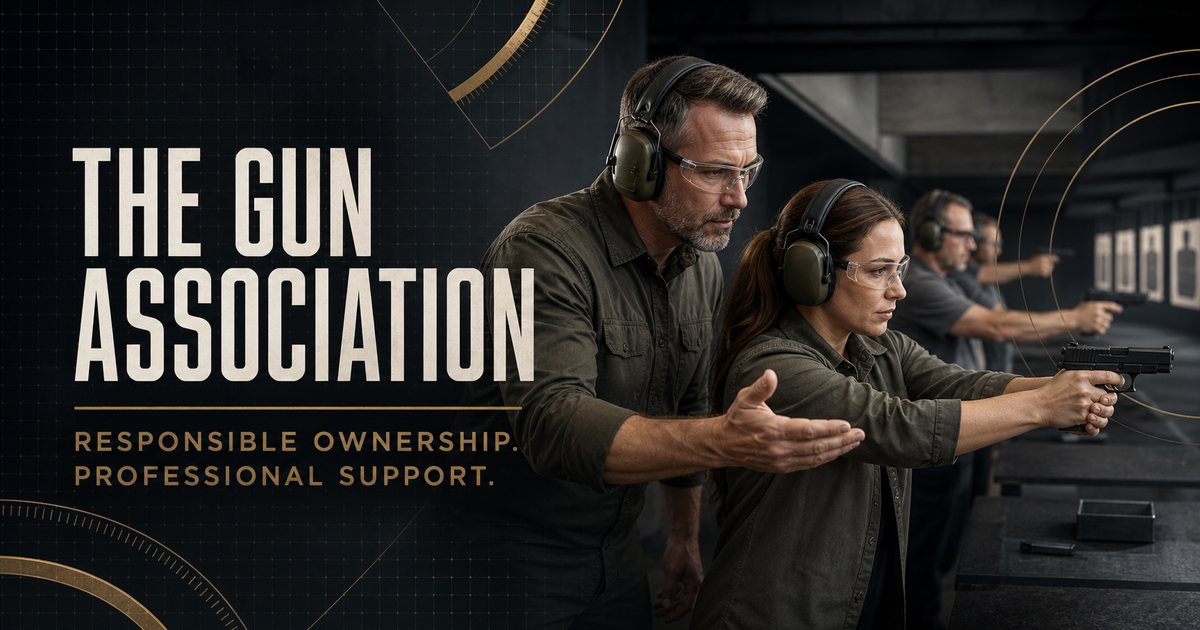
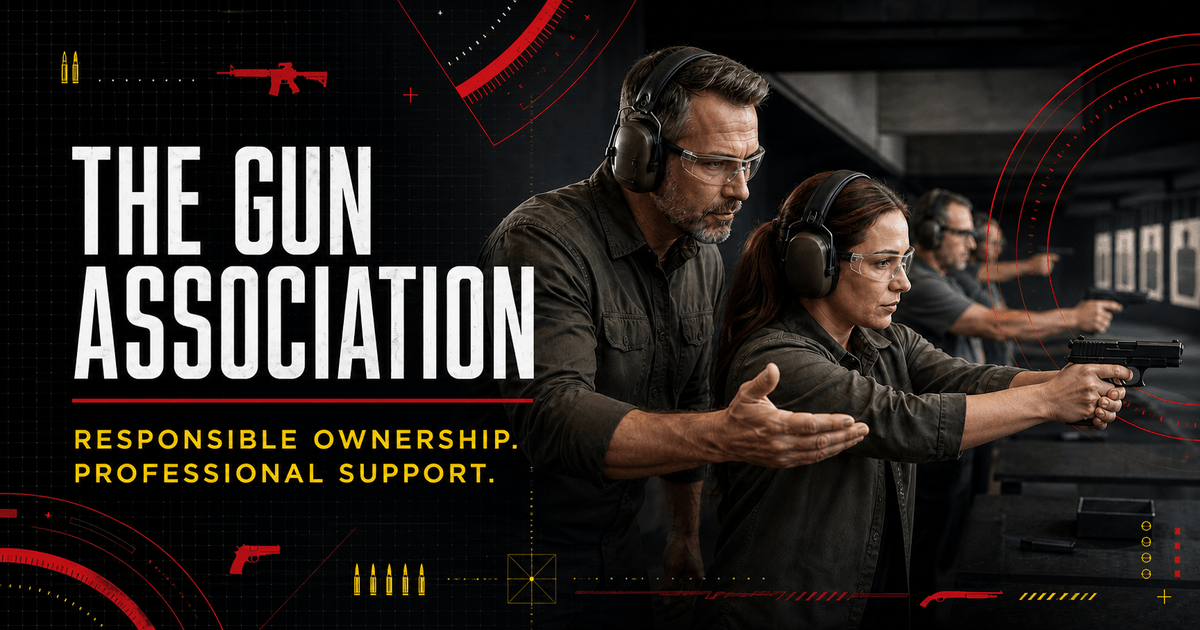
Restore bold TGA brand accents

diff --git a/TGA_Member_Portal_Source/tga-portal-prototype/src/styles.css b/TGA_Member_Portal_Source/tga-portal-prototype/src/styles.css
@@ -7,25 +7,29 @@
 @import 'bootstrap/dist/css/bootstrap.min.css';
 
 :root {
-  --tga-black: #080a0b;
-  --tga-charcoal: #111416;
-  --tga-panel: #171b1e;
-  --tga-panel-light: #20262a;
-  --tga-steel: #8c969d;
-  --tga-silver: #c5ccd0;
-  --tga-olive: #69725a;
-  --tga-olive-dark: #3e4635;
-  --tga-brass: #b5955b;
-  --tga-brass-light: #d4bd8a;
-  --tga-off-white: #f0eee8;
-  --tga-muted: #9da3a6;
-  --tga-success: #598167;
-  --tga-warning: #c0934b;
-  --tga-danger: #a74f4f;
-  --tga-ink: #171a1b;
-  --tga-paper: #f3f1eb;
-  --tga-paper-alt: #e8e5de;
-  --border-dark: rgba(197, 204, 208, .18);
+  --tga-black: #070708;
+  --tga-charcoal: #111113;
+  --tga-panel: #19191c;
+  --tga-panel-light: #242428;
+  --tga-steel: #81878d;
+  --tga-silver: #d7d8da;
+  --tga-red: #d3131d;
+  --tga-red-dark: #86070d;
+  --tga-yellow: #ffd100;
+  --tga-white: #ffffff;
+  --tga-olive: var(--tga-red);
+  --tga-olive-dark: var(--tga-red-dark);
+  --tga-brass: var(--tga-red);
+  --tga-brass-light: var(--tga-yellow);
+  --tga-off-white: #f6f5f1;
+  --tga-muted: #a9aaae;
+  --tga-success: #2f8957;
+  --tga-warning: #b58d00;
+  --tga-danger: var(--tga-red);
+  --tga-ink: #151517;
+  --tga-paper: #f7f7f4;
+  --tga-paper-alt: #e9e9e5;
+  --border-dark: rgba(255, 255, 255, .18);
   --border-light: rgba(23, 27, 30, .13);
   --shadow: 0 24px 70px rgba(0, 0, 0, .24);
   --container: min(1240px, calc(100% - 48px));
@@ -52,18 +56,25 @@ img { display: block; max-width: 100%; }
 .site-container { width: var(--container); margin-inline: auto; }
 .section { position: relative; padding: clamp(78px, 8vw, 126px) 0; }
 .section--panel { background: var(--tga-charcoal); color: var(--tga-off-white); }
-.section--panel::before, .ownership-section::before { content: ''; position: absolute; inset: 0; pointer-events: none; opacity: .22; background-image: linear-gradient(rgba(181,149,91,.08) 1px, transparent 1px), linear-gradient(90deg, rgba(181,149,91,.08) 1px, transparent 1px); background-size: 42px 42px; mask-image: linear-gradient(to bottom, transparent, #000 20%, #000 80%, transparent); }
+.section--panel::before, .ownership-section::before { content: ''; position: absolute; inset: 0; pointer-events: none; opacity: .28; background-image: linear-gradient(rgba(211,19,29,.12) 1px, transparent 1px), linear-gradient(90deg, rgba(255,209,0,.07) 1px, transparent 1px); background-size: 42px 42px; mask-image: linear-gradient(to bottom, transparent, #000 20%, #000 80%, transparent); }
 .eyebrow { display: inline-flex; align-items: center; gap: 9px; color: var(--tga-olive-dark); font-size: .75rem; font-weight: 700; letter-spacing: .18em; text-transform: uppercase; }
 .section--panel .eyebrow, .hero .eyebrow, .closing-cta .eyebrow, .login-screen .eyebrow, .portal-sidebar .eyebrow { color: var(--tga-brass-light); }
 .eyebrow::before { width: 28px; height: 1px; content: ''; background: currentColor; }
 .section-heading { position: relative; max-width: 760px; margin-bottom: 48px; }
+.section-weapon-mark { width: fit-content; margin-bottom: 13px; display: flex; align-items: center; gap: 7px; color: var(--tga-red); }
+.section-weapon-mark iconify-icon { font-size: 2rem; filter: drop-shadow(0 0 12px rgba(211,19,29,.2)); }
+.section-weapon-mark i { width: 15px; height: 4px; display: block; background: var(--tga-yellow); clip-path: polygon(0 0, 76% 0, 100% 50%, 76% 100%, 0 100%); }
+.section-weapon-mark i:nth-of-type(2) { width: 10px; opacity: .68; }
+.section-weapon-mark i:nth-of-type(3) { width: 6px; opacity: .38; }
+.section--panel .section-weapon-mark, .ownership-section .section-weapon-mark { color: var(--tga-yellow); }
+.section--panel .section-weapon-mark i, .ownership-section .section-weapon-mark i { background: var(--tga-red); }
 .section-heading h2 { max-width: 740px; margin: 12px 0 16px; font-family: var(--heading); font-size: clamp(2.6rem, 5vw, 4.7rem); font-weight: 600; line-height: .94; letter-spacing: -.025em; text-transform: uppercase; }
 .section-heading p { max-width: 680px; margin: 0; color: #5d6365; font-size: 1.04rem; }
 .section--panel .section-heading p, .closing-cta p { color: var(--tga-muted); }
 .button { min-height: 46px; border: 1px solid transparent; border-radius: 2px; padding: 12px 20px; display: inline-flex; align-items: center; justify-content: center; gap: 10px; font-weight: 700; line-height: 1; cursor: pointer; transition: color .2s, border-color .2s, background .2s, transform .2s; }
 .button:hover { transform: translateY(-2px); }
 .button--brass { color: var(--tga-black); background: var(--tga-brass-light); border-color: var(--tga-brass-light); }
-.button--brass:hover { background: #e1c997; border-color: #e1c997; }
+.button--brass:hover { color: var(--tga-white); background: var(--tga-red); border-color: var(--tga-red); box-shadow: 0 0 0 4px rgba(211,19,29,.18); }
 .button--outline { color: inherit; background: transparent; border-color: currentColor; }
 .button--outline:hover { color: var(--tga-black); background: var(--tga-brass-light); border-color: var(--tga-brass-light); }
 .button--glass { color: var(--tga-off-white); background: rgba(8,10,11,.3); border-color: rgba(240,238,232,.52); backdrop-filter: blur(9px); }
@@ -89,8 +100,14 @@ iconify-icon { font-size: 1.35em; }
 .announcement span { display: flex; align-items: center; gap: 20px; }
 .announcement span:not(:last-of-type)::after { width: 3px; height: 3px; content: ''; border-radius: 50%; background: var(--tga-brass); }
 .announcement b { margin-left: auto; color: var(--tga-brass-light); font-weight: 600; }
-.public-header { position: sticky; z-index: 40; top: 0; color: var(--tga-off-white); background: rgba(17,20,22,.96); border-bottom: 1px solid var(--border-dark); backdrop-filter: blur(18px); }
+.public-header { position: sticky; z-index: 40; top: 0; color: var(--tga-off-white); background: rgba(17,17,19,.97); border-bottom: 1px solid var(--border-dark); backdrop-filter: blur(18px); }
+.public-header::after { position: absolute; right: 0; bottom: -3px; left: 0; height: 3px; content: ''; background: linear-gradient(90deg, var(--tga-red) 0 68%, var(--tga-yellow) 68% 82%, var(--tga-white) 82%); box-shadow: 0 5px 18px rgba(211,19,29,.28); }
 .header-inner { min-height: 76px; display: flex; align-items: center; gap: 24px; }
+.nav-weapon-mark { height: 42px; padding: 0 12px; border-inline: 1px solid var(--border-dark); display: flex; align-items: center; gap: 4px; color: var(--tga-red); }
+.nav-weapon-mark iconify-icon { font-size: 2rem; filter: drop-shadow(0 0 9px rgba(211,19,29,.35)); }
+.nav-weapon-mark i, .portal-weapon-mark i, .topbar-weapon-mark i { width: 9px; height: 3px; display: block; background: var(--tga-yellow); clip-path: polygon(0 0, 70% 0, 100% 50%, 70% 100%, 0 100%); }
+.nav-weapon-mark i:nth-of-type(2), .portal-weapon-mark i:nth-of-type(2), .topbar-weapon-mark i:nth-of-type(2) { width: 6px; opacity: .64; }
+.nav-weapon-mark i:nth-of-type(3), .portal-weapon-mark i:nth-of-type(3), .topbar-weapon-mark i:nth-of-type(3) { width: 4px; opacity: .36; }
 .desktop-navigation { margin-left: auto; display: flex; align-items: center; gap: 20px; font-size: .8rem; font-weight: 600; }
 .desktop-navigation > a, .nav-dropdown > summary { min-height: 44px; display: flex; align-items: center; color: var(--tga-silver); cursor: pointer; }
 .desktop-navigation > a:hover, .nav-dropdown > summary:hover { color: var(--tga-brass-light); }
@@ -99,7 +116,7 @@ iconify-icon { font-size: 1.35em; }
 .nav-dropdown summary::-webkit-details-marker { display: none; }
 .nav-dropdown > div { position: absolute; top: calc(100% + 4px); left: -18px; width: 220px; padding: 10px; display: grid; color: var(--tga-off-white); background: var(--tga-panel); border: 1px solid var(--border-dark); box-shadow: var(--shadow); }
 .nav-dropdown > div a { min-height: 42px; padding: 10px 12px; border-left: 2px solid transparent; }
-.nav-dropdown > div a:hover { color: var(--tga-brass-light); background: rgba(181,149,91,.08); border-color: var(--tga-brass); }
+.nav-dropdown > div a:hover { color: var(--tga-yellow); background: rgba(211,19,29,.14); border-color: var(--tga-red); }
 .header-actions { display: flex; align-items: center; gap: 14px; }
 .header-actions .text-action { color: var(--tga-off-white); font-size: .78rem; }
 .menu-button { width: 48px; height: 48px; margin-left: auto; border: 1px solid var(--border-dark); display: none; place-items: center; color: var(--tga-off-white); background: transparent; cursor: pointer; }
@@ -113,13 +130,17 @@ iconify-icon { font-size: 1.35em; }
 .hero-media img { object-fit: cover; }
 .hero-shade { z-index: 1; background: linear-gradient(90deg, rgba(8,10,11,.97) 0%, rgba(8,10,11,.88) 35%, rgba(8,10,11,.43) 64%, rgba(8,10,11,.24) 100%), linear-gradient(0deg, rgba(8,10,11,.7), transparent 52%); }
 .hero canvas { z-index: 2; pointer-events: none; opacity: .8; }
-.technical-grid { z-index: 2; pointer-events: none; opacity: .18; background-image: linear-gradient(rgba(181,149,91,.25) 1px, transparent 1px), linear-gradient(90deg, rgba(181,149,91,.25) 1px, transparent 1px); background-size: 64px 64px; mask-image: linear-gradient(90deg, #000, transparent 64%); }
-.webgl-fallback::after { position: absolute; z-index: 2; top: 14%; left: 54%; width: 320px; aspect-ratio: 1; content: ''; border: 1px solid rgba(181,149,91,.3); border-radius: 50%; box-shadow: 0 0 0 64px rgba(181,149,91,.07), 0 0 0 128px rgba(181,149,91,.04); }
+.technical-grid { z-index: 2; pointer-events: none; opacity: .23; background-image: linear-gradient(rgba(211,19,29,.26) 1px, transparent 1px), linear-gradient(90deg, rgba(255,209,0,.13) 1px, transparent 1px); background-size: 64px 64px; mask-image: linear-gradient(90deg, #000, transparent 64%); }
+.webgl-fallback::after { position: absolute; z-index: 2; top: 14%; left: 54%; width: 320px; aspect-ratio: 1; content: ''; border: 1px solid rgba(255,209,0,.34); border-radius: 50%; box-shadow: 0 0 0 64px rgba(211,19,29,.09), 0 0 0 128px rgba(211,19,29,.04); }
 .hero-content { position: relative; z-index: 3; padding-block: 82px; }
 .hero-copy { max-width: 760px; }
 .hero h1 { max-width: 810px; margin: 18px 0 24px; font-family: var(--heading); font-size: clamp(3.75rem, 7.5vw, 7.2rem); font-weight: 600; line-height: .83; letter-spacing: -.027em; text-transform: uppercase; text-wrap: balance; }
 .hero h1 em { color: var(--tga-brass-light); font-style: normal; }
 .hero-copy > p { max-width: 660px; margin: 0; color: var(--tga-silver); font-size: clamp(1.05rem, 1.6vw, 1.28rem); }
+.hero-weapon-rail { width: fit-content; margin-top: 26px; padding: 9px 14px 9px 10px; border: 1px solid rgba(255,255,255,.18); border-left: 4px solid var(--tga-red); display: flex; align-items: center; gap: 9px; color: var(--tga-white); background: rgba(7,7,8,.68); font-size: .7rem; font-weight: 800; letter-spacing: .12em; text-transform: uppercase; backdrop-filter: blur(8px); }
+.hero-weapon-rail > iconify-icon:first-child { color: var(--tga-red); font-size: 2.1rem; filter: drop-shadow(0 0 12px rgba(211,19,29,.4)); }
+.hero-weapon-rail > iconify-icon:not(:first-child) { color: var(--tga-yellow); font-size: .85rem; }
+.hero-weapon-rail b { color: var(--tga-red); }
 .hero-actions { margin-top: 34px; display: flex; flex-wrap: wrap; gap: 12px; }
 .hero-trust { margin: 38px 0 0; padding: 22px 0 0; border-top: 1px solid var(--border-dark); display: flex; flex-wrap: wrap; gap: 24px; list-style: none; color: var(--tga-silver); font-size: .78rem; }
 .hero-trust li { display: flex; align-items: center; gap: 8px; }
@@ -148,7 +169,7 @@ iconify-icon { font-size: 1.35em; }
 
 .service-grid { position: relative; display: grid; grid-template-columns: repeat(3, 1fr); border-top: 1px solid var(--border-dark); border-left: 1px solid var(--border-dark); }
 .service-card { min-height: 330px; padding: 0; border: 0; border-right: 1px solid var(--border-dark); border-bottom: 1px solid var(--border-dark); display: grid; color: inherit; background: transparent; text-align: left; cursor: pointer; overflow: hidden; perspective: 1000px; }
-.service-card::before { position: absolute; inset: 0; content: ''; pointer-events: none; opacity: 0; background: radial-gradient(360px circle at var(--pointer-x) var(--pointer-y), rgba(181,149,91,.14), transparent 42%); transition: opacity .25s; }
+.service-card::before { position: absolute; inset: 0; content: ''; pointer-events: none; opacity: 0; background: radial-gradient(360px circle at var(--pointer-x) var(--pointer-y), rgba(211,19,29,.22), transparent 42%); transition: opacity .25s; }
 .service-card:hover::before { opacity: 1; }
 .service-card__front, .service-card__back { grid-area: 1 / 1; padding: 34px; display: flex; flex-direction: column; backface-visibility: hidden; transition: opacity .25s, transform .4s; }
 .service-card__front > b, .service-card__back > b { align-self: flex-end; color: var(--tga-steel); font-family: var(--heading); font-size: 1.15rem; }
@@ -177,7 +198,7 @@ iconify-icon { font-size: 1.35em; }
 .journey-visual [data-rive-fallback] > iconify-icon { color: var(--tga-brass-light); font-size: 3rem; }
 .journey-visual [data-rive-fallback] strong { margin-top: 22px; font-family: var(--heading); font-size: 2rem; text-transform: uppercase; }
 .journey-visual [data-rive-fallback] small { max-width: 240px; color: var(--tga-muted); }
-.target-rings { width: 190px; height: 190px; border: 1px solid rgba(181,149,91,.68); border-radius: 50%; box-shadow: 0 0 0 38px rgba(181,149,91,.12), 0 0 0 76px rgba(181,149,91,.06); }
+.target-rings { width: 190px; height: 190px; border: 1px solid rgba(255,209,0,.72); border-radius: 50%; box-shadow: 0 0 0 38px rgba(211,19,29,.15), 0 0 0 76px rgba(211,19,29,.07); }
 
 .split-feature__grid { display: grid; grid-template-columns: 1fr 1fr; gap: clamp(48px, 8vw, 110px); align-items: center; }
 .split-feature .image-frame img { min-height: 520px; }
@@ -212,7 +233,7 @@ iconify-icon { font-size: 1.35em; }
 .price-card li iconify-icon { color: var(--tga-brass-light); }
 .price-card .button { width: 100%; margin-top: auto; }
 .prototype-badge { width: fit-content; padding: 5px 8px; display: inline-flex; color: var(--tga-black); background: var(--tga-brass-light); font-size: .62rem; font-weight: 800; letter-spacing: .08em; text-transform: uppercase; }
-.prototype-notice { margin: 24px 0 0; padding: 14px 18px; color: var(--tga-muted); background: rgba(181,149,91,.09); border-left: 3px solid var(--tga-brass); font-size: .82rem; }
+.prototype-notice { margin: 24px 0 0; padding: 14px 18px; color: var(--tga-muted); background: rgba(211,19,29,.10); border-left: 3px solid var(--tga-red); font-size: .82rem; }
 .ownership-section { color: var(--tga-off-white); background: var(--tga-panel); }
 .ownership-hero { position: relative; display: grid; grid-template-columns: 1fr 1fr; gap: 72px; align-items: center; }
 .ownership-hero .section-heading p { color: var(--tga-muted); }
@@ -246,11 +267,16 @@ iconify-icon { font-size: 1.35em; }
 .contact-grid h3 { margin: 54px 0 10px; font-family: var(--heading); font-size: 1.8rem; text-transform: uppercase; }
 .contact-grid p { margin: 0; color: #656a6c; }
 .contact-grid small { margin-top: auto; padding-top: 24px; color: var(--tga-danger); font-weight: 700; }
-.closing-cta { padding: clamp(80px, 10vw, 150px) 0; color: var(--tga-off-white); background: linear-gradient(120deg, rgba(62,70,53,.98), rgba(17,20,22,.98)), var(--tga-panel); text-align: center; }
+.closing-cta { position: relative; padding: clamp(80px, 10vw, 150px) 0; color: var(--tga-off-white); background: linear-gradient(120deg, rgba(134,7,13,.98), rgba(17,17,19,.98) 66%), var(--tga-panel); text-align: center; overflow: hidden; }
+.closing-cta::after { position: absolute; right: -10%; bottom: -48%; width: 42%; aspect-ratio: 1; content: ''; border: 2px solid rgba(255,209,0,.18); border-radius: 50%; box-shadow: 0 0 0 52px rgba(255,255,255,.035), 0 0 0 104px rgba(211,19,29,.08); pointer-events: none; }
 .closing-cta h2 { max-width: 850px; margin: 18px auto 30px; font-family: var(--heading); font-size: clamp(3.2rem, 6vw, 6.3rem); line-height: .9; text-transform: uppercase; }
 .closing-cta .site-container > div { display: flex; flex-wrap: wrap; justify-content: center; gap: 14px; }
 
 .public-footer { padding: 66px 0 24px; color: var(--tga-silver); background: var(--tga-black); }
+.footer-weapon-line { margin-bottom: 44px; padding-bottom: 16px; border-bottom: 1px solid var(--border-dark); display: flex; align-items: center; gap: 10px; color: var(--tga-red); }
+.footer-weapon-line iconify-icon:first-child { font-size: 2.5rem; }
+.footer-weapon-line iconify-icon:not(:first-child) { color: var(--tga-yellow); font-size: .95rem; }
+.footer-weapon-line span { height: 2px; flex: 1; background: linear-gradient(90deg, var(--tga-red), var(--tga-yellow) 62%, var(--tga-white)); }
 .footer-grid { display: grid; grid-template-columns: 1.5fr .65fr .85fr; gap: 70px; }
 .footer-grid > div:first-child > p { max-width: 420px; color: var(--tga-muted); }
 .footer-responsibility { padding-left: 14px; border-left: 2px solid var(--tga-brass); font-size: .78rem; }
@@ -286,7 +312,7 @@ label { font-size: .8rem; font-weight: 700; }
 label > span { color: var(--tga-danger); }
 input, select, textarea { width: 100%; min-height: 48px; margin-top: 7px; border: 1px solid #aeb3b3; border-radius: 1px; padding: 11px 13px; color: var(--tga-ink); background: #fff; }
 textarea { resize: vertical; }
-input:focus, select:focus, textarea:focus { border-color: var(--tga-olive); box-shadow: 0 0 0 3px rgba(105,114,90,.16); outline: none; }
+input:focus, select:focus, textarea:focus { border-color: var(--tga-red); box-shadow: 0 0 0 3px rgba(211,19,29,.16); outline: none; }
 .password-field { position: relative; display: block; color: inherit; }
 .password-field input { padding-right: 52px; }
 .password-field button { position: absolute; top: 9px; right: 2px; width: 46px; height: 46px; border: 0; display: grid; place-items: center; background: transparent; cursor: pointer; }
@@ -298,21 +324,26 @@ input:focus, select:focus, textarea:focus { border-color: var(--tga-olive); box-
 .demo-accounts { margin-top: 22px; display: grid; grid-template-columns: 1fr 1fr; gap: 8px; }
 .demo-accounts > p { grid-column: 1 / -1; margin: 0 0 2px; color: #717779; font-size: .7rem; font-weight: 700; letter-spacing: .08em; text-transform: uppercase; }
 .demo-accounts button { min-height: 68px; padding: 12px; border: 1px solid var(--border-light); display: grid; gap: 2px; background: #fff; text-align: left; cursor: pointer; }
-.demo-accounts button:hover, .demo-accounts button.selected { border-color: var(--tga-brass); background: #f4ebda; }
+.demo-accounts button:hover, .demo-accounts button.selected { border-color: var(--tga-red); background: #fff1f2; }
 .demo-accounts span { color: #777; font-size: .68rem; }
 .login-card > aside { margin-top: 18px; padding: 14px; display: flex; gap: 10px; color: #606668; background: var(--tga-paper-alt); font-size: .72rem; }
 
 /* Portal */
 .portal-shell { min-height: 100vh; display: grid; grid-template-columns: 280px 1fr; grid-template-rows: 76px 1fr; }
 .portal-sidebar { position: fixed; z-index: 20; inset: 0 auto 0 0; width: 280px; padding: 24px 18px; display: flex; flex-direction: column; color: var(--tga-silver); background: var(--tga-charcoal); border-right: 1px solid var(--border-dark); }
+.portal-sidebar::after { position: absolute; top: 0; right: -3px; bottom: 0; width: 3px; content: ''; background: linear-gradient(var(--tga-red) 0 72%, var(--tga-yellow) 72% 86%, var(--tga-white) 86%); }
 .portal-sidebar .brand-link { margin: 0 10px 22px; color: var(--tga-off-white); }
 .portal-role { margin: 0 10px 18px; color: var(--tga-brass-light); font-size: .65rem; font-weight: 800; letter-spacing: .12em; text-transform: uppercase; }
+.portal-weapon-mark { margin: -6px 10px 18px; padding: 9px 0; border-block: 1px solid var(--border-dark); display: flex; align-items: center; gap: 4px; color: var(--tga-red); }
+.portal-weapon-mark iconify-icon { margin-right: 4px; font-size: 1.9rem; }
 .portal-sidebar nav, .portal-drawer nav { display: grid; gap: 3px; }
 .portal-sidebar nav button, .portal-drawer nav button, .sidebar-actions button { min-height: 48px; padding: 11px 12px; border: 0; display: flex; align-items: center; gap: 12px; color: var(--tga-muted); background: transparent; cursor: pointer; text-align: left; }
-.portal-sidebar nav button:hover, .portal-drawer nav button:hover, .portal-sidebar nav button.active, .portal-drawer nav button.active { color: var(--tga-off-white); background: rgba(181,149,91,.09); box-shadow: inset 3px 0 var(--tga-brass); }
+.portal-sidebar nav button:hover, .portal-drawer nav button:hover, .portal-sidebar nav button.active, .portal-drawer nav button.active { color: var(--tga-off-white); background: rgba(211,19,29,.16); box-shadow: inset 3px 0 var(--tga-red); }
 .portal-sidebar nav button iconify-icon, .portal-drawer nav button iconify-icon { color: var(--tga-brass-light); }
 .sidebar-actions { margin-top: auto; padding-top: 18px; border-top: 1px solid var(--border-dark); display: grid; }
 .portal-topbar { position: sticky; z-index: 15; top: 0; grid-column: 2; padding: 0 30px; display: flex; align-items: center; justify-content: flex-end; color: var(--tga-ink); background: rgba(243,241,235,.95); border-bottom: 1px solid var(--border-light); backdrop-filter: blur(16px); }
+.topbar-weapon-mark { margin-right: auto; display: flex; align-items: center; gap: 4px; color: var(--tga-red); }
+.topbar-weapon-mark iconify-icon { margin-right: 4px; font-size: 2rem; }
 .portal-topbar > .brand, .portal-topbar > .menu-button { display: none; }
 .portal-topbar > div { display: flex; align-items: center; gap: 14px; }
 .portal-topbar .icon-button { position: relative; border-color: var(--border-light); }
@@ -325,7 +356,8 @@ input:focus, select:focus, textarea:focus { border-color: var(--tga-olive); box-
 .portal-page-heading h1 { margin: 8px 0 7px; font-family: var(--heading); font-size: clamp(2.7rem, 4.5vw, 4.2rem); line-height: .95; text-transform: uppercase; }
 .portal-page-heading p { max-width: 700px; margin: 0; color: #666c6e; }
 .portal-grid--overview { margin-bottom: 16px; display: grid; grid-template-columns: 1.2fr .8fr; gap: 16px; }
-.membership-card { position: relative; min-height: 300px; padding: 32px; display: flex; flex-direction: column; overflow: hidden; color: var(--tga-off-white); background: linear-gradient(135deg, var(--tga-charcoal), var(--tga-olive-dark)); box-shadow: var(--shadow); }
+.membership-card { position: relative; min-height: 300px; padding: 32px; display: flex; flex-direction: column; overflow: hidden; color: var(--tga-off-white); background: linear-gradient(135deg, var(--tga-charcoal) 0 54%, var(--tga-red-dark)); border-bottom: 5px solid var(--tga-yellow); box-shadow: var(--shadow); }
+.member-card-pistol { position: absolute; right: -24px; bottom: 8px; color: rgba(255,255,255,.08); font-size: 13rem; transform: rotate(-8deg); pointer-events: none; }
 .membership-card::before, .membership-card::after { position: absolute; right: -50px; bottom: -90px; width: 260px; height: 260px; content: ''; border: 1px solid rgba(212,189,138,.28); border-radius: 50%; box-shadow: 0 0 0 46px rgba(212,189,138,.06); }
 .membership-card::after { right: 78px; bottom: -150px; }
 .membership-card > span { color: var(--tga-brass-light); font-family: var(--heading); font-size: 1.35rem; letter-spacing: .08em; }
@@ -498,7 +530,8 @@ td small { display: block; color: #7a7f80; }
 
 @media (max-width: 1199px) {
   .desktop-navigation, .header-actions { display: none; }
-  .public-header .menu-button { display: grid; }
+  .nav-weapon-mark { margin-left: auto; }
+  .public-header .menu-button { margin-left: 0; display: grid; }
   .credibility-grid { grid-template-columns: repeat(3, 1fr); }
   .credibility-grid div:nth-child(4) { border-left: 1px solid var(--border-dark); }
   .service-grid { grid-template-columns: repeat(2, 1fr); }
@@ -529,12 +562,15 @@ td small { display: block; color: #7a7f80; }
   .announcement .site-container { justify-content: center; }
   .announcement span:nth-child(n+3), .announcement b { display: none; }
   .header-inner { min-height: 68px; }
+  .nav-weapon-mark { height: 38px; padding-inline: 8px; }
+  .nav-weapon-mark iconify-icon { font-size: 1.75rem; }
   .brand small { display: none; }
   .hero { min-height: 740px; align-items: flex-end; }
   .hero-shade { background: linear-gradient(0deg, rgba(8,10,11,.98) 5%, rgba(8,10,11,.76) 58%, rgba(8,10,11,.34)); }
   .technical-grid { mask-image: linear-gradient(0deg, #000, transparent 72%); }
   .hero-content { padding-block: 78px 58px; }
   .hero h1 { font-size: clamp(3.45rem, 14vw, 5.6rem); }
+  .hero-weapon-rail { max-width: 100%; flex-wrap: wrap; }
   .hero-trust { gap: 12px 18px; }
   .credibility-grid { grid-template-columns: repeat(2, 1fr); }
   .credibility-grid div:nth-child(odd) { border-left: 1px solid var(--border-dark); }
@@ -563,6 +599,8 @@ td small { display: block; color: #7a7f80; }
   .portal-topbar > .menu-button { margin: 0; display: grid; color: var(--tga-ink); border-color: var(--border-light); }
   .portal-topbar > .brand { display: inline-flex; }
   .portal-topbar > .brand img { width: 38px; height: 38px; }
+  .topbar-weapon-mark i { display: none; }
+  .topbar-weapon-mark iconify-icon { font-size: 1.75rem; }
   .user-chip small { display: none; }
   .portal-main { padding: 30px 16px 60px; }
   .portal-page-heading { align-items: flex-start; flex-direction: column; }
@@ -621,6 +659,9 @@ td small { display: block; color: #7a7f80; }
 @media (max-width: 430px) {
   .announcement span:nth-child(2) { display: none; }
   .brand strong { font-size: 1.08rem; }
+  .nav-weapon-mark { padding: 0; border: 0; }
+  .nav-weapon-mark i, .hero-weapon-rail > iconify-icon:not(:first-child) { display: none; }
+  .hero-weapon-rail { gap: 7px; padding-right: 10px; letter-spacing: .075em; }
   .hero { min-height: 700px; }
   .hero h1 { font-size: 3.65rem; }
   .credibility-grid span { font-size: .62rem; }

diff --git a/TGA_Member_Portal_Source/tga-portal-prototype/src/templates.js b/TGA_Member_Portal_Source/tga-portal-prototype/src/templates.js
@@ -21,6 +21,7 @@ export const escapeHtml = (value = '') => String(value)
   .replaceAll("'", '&#039;');
 
 const icon = (name) => `<iconify-icon icon="${name}" aria-hidden="true"></iconify-icon>`;
+const weaponMark = (className = 'weapon-mark') => `<span class="${className}" aria-hidden="true">${icon('mdi:pistol')}<i></i><i></i><i></i></span>`;
 
 export function picture(asset, className = '', eager = false) {
   const responsiveSizes = className.includes('hero-media') ? '100vw' : '(max-width: 800px) 100vw, 50vw';
@@ -36,7 +37,7 @@ function logo(label = true) {
 }
 
 function sectionHeading(eyebrow, title, text, id = '') {
-  return `<header class="section-heading" ${id ? `id="${id}"` : ''} data-reveal><span class="eyebrow">${eyebrow}</span><h2>${title}</h2>${text ? `<p>${text}</p>` : ''}</header>`;
+  return `<header class="section-heading" ${id ? `id="${id}"` : ''} data-reveal>${weaponMark('section-weapon-mark')}<span class="eyebrow">${eyebrow}</span><h2>${title}</h2>${text ? `<p>${text}</p>` : ''}</header>`;
 }
 
 function publicNavigation(mobile = false) {
@@ -58,6 +59,7 @@ export function publicTemplate(demoMode = true) {
     <div class="announcement" role="note"><div class="site-container"><span>Responsible ownership</span><span>Training</span><span>Compliance</span><span>Membership support</span>${demoMode ? '<b>Prototype for stakeholder review</b>' : ''}</div></div>
     <header class="public-header">
       <div class="site-container header-inner"><a class="brand-link" href="#top" aria-label="The Gun Association home">${logo()}</a>
+        ${weaponMark('nav-weapon-mark')}
         ${publicNavigation()}
         <div class="header-actions"><button class="text-action" data-action="login">Member login</button><button class="button button--brass" data-action="apply">Join TGA</button></div>
         <button class="menu-button" type="button" data-action="toggle-public-menu" aria-controls="public-mobile-menu" aria-expanded="false" aria-label="Open website menu">${icon('solar:hamburger-menu-linear')}</button>
@@ -73,6 +75,7 @@ export function publicTemplate(demoMode = true) {
           <span class="eyebrow">South African member experience prototype</span>
           <h1 id="hero-title">Responsible Ownership.<br><em>Professional Support.</em><br>One Trusted Association.</h1>
           <p>Membership, training, assessments, compliance support and secure digital services for South Africa's firearm community.</p>
+          <div class="hero-weapon-rail" role="note">${icon('mdi:pistol')}<span>Precision <b>•</b> Discipline <b>•</b> Responsibility</span>${icon('mdi:bullet')}${icon('mdi:bullet')}${icon('mdi:bullet')}</div>
           <div class="hero-actions"><button class="button button--brass" data-action="apply">Join TGA ${icon('solar:arrow-right-linear')}</button><button class="button button--glass" data-action="login">Access member portal</button></div>
           <ul class="hero-trust" aria-label="Prototype trust indicators"><li>${icon('solar:shield-check-linear')} Responsible participation</li><li>${icon('solar:lock-keyhole-linear')} Privacy-led design</li><li>${icon('solar:map-point-linear')} South African context</li></ul>
         </div></div>
@@ -134,7 +137,7 @@ export function publicTemplate(demoMode = true) {
       <section class="closing-cta"><div class="site-container"><span class="eyebrow">Ready for stakeholder review</span><h2>Begin the journey or explore the working portal.</h2><div><button class="button button--brass" data-action="apply">Join TGA</button><button class="button button--glass" data-action="login">Access member portal</button><button class="text-button text-button--light" data-action="consulting">Contact firearm consulting</button></div></div></section>
     </main>
 
-    <footer class="public-footer"><div class="site-container footer-grid"><div>${logo()}<p>A responsible, member-first digital experience${demoMode ? ' prototype for stakeholder review' : ''}.</p><p class="footer-responsibility">Safe handling, secure storage, ongoing training and lawful compliance remain the responsibility of every firearm owner.</p></div><nav aria-label="Footer navigation"><strong>Explore</strong><a href="#about">About TGA</a><a href="#membership">Membership</a><a href="#training">Training</a><a href="#resources">Resources</a><a href="#faq">FAQ</a><a href="#contact">Contact</a></nav><div><strong>${demoMode ? 'Prototype' : 'Information'}</strong><button data-action="privacy">Privacy & POPIA</button><button data-action="terms">Terms</button>${demoMode ? '<button data-action="guide">Prototype guide</button>' : ''}<p class="social-placeholder">${icon('solar:global-linear')} Social profiles to be supplied by TGA.</p></div></div><div class="site-container footer-bottom"><span>© 2026 The Gun Association. ${demoMode ? 'Prototype copy for review.' : 'All rights reserved.'}</span>${demoMode ? '<b>Authentication, storage, payments and notifications are simulated.</b>' : ''}</div></footer>
+    <footer class="public-footer"><div class="site-container footer-weapon-line" aria-hidden="true">${icon('mdi:pistol')}<span></span>${icon('mdi:bullet')}${icon('mdi:bullet')}${icon('mdi:bullet')}</div><div class="site-container footer-grid"><div>${logo()}<p>A responsible, member-first digital experience${demoMode ? ' prototype for stakeholder review' : ''}.</p><p class="footer-responsibility">Safe handling, secure storage, ongoing training and lawful compliance remain the responsibility of every firearm owner.</p></div><nav aria-label="Footer navigation"><strong>Explore</strong><a href="#about">About TGA</a><a href="#membership">Membership</a><a href="#training">Training</a><a href="#resources">Resources</a><a href="#faq">FAQ</a><a href="#contact">Contact</a></nav><div><strong>${demoMode ? 'Prototype' : 'Information'}</strong><button data-action="privacy">Privacy & POPIA</button><button data-action="terms">Terms</button>${demoMode ? '<button data-action="guide">Prototype guide</button>' : ''}<p class="social-placeholder">${icon('solar:global-linear')} Social profiles to be supplied by TGA.</p></div></div><div class="site-container footer-bottom"><span>© 2026 The Gun Association. ${demoMode ? 'Prototype copy for review.' : 'All rights reserved.'}</span>${demoMode ? '<b>Authentication, storage, payments and notifications are simulated.</b>' : ''}</div></footer>
     <button class="chat-launcher" type="button" data-action="chat" aria-label="Open TGA prototype assistant">${icon('solar:chat-round-dots-bold')}<span>Ask TGA</span></button>
   </div>`;
 }
@@ -177,7 +180,7 @@ function portalNavigation(state) {
 
 function memberOverview() {
   return `${pageHeading('Member portal', 'Good day, Anele', 'Here is the current state of your illustrative TGA membership.', '<button class="button button--brass" data-action="upload">Upload a document</button>')}
-    <div class="portal-grid portal-grid--overview"><article class="membership-card"><span>THE GUN ASSOCIATION</span><small>Professional member</small><strong>Anele Dlamini</strong><p>TGA-2026-1048</p><div><b>ACTIVE</b><span>Valid to 31 July 2027</span></div></article><article class="status-card"><header><span>Membership status</span>${statusBadge('Active')}</header><div class="target-progress" style="--progress:82"><span>82%</span></div><h2>Almost complete</h2><p>One compliance document is still in review.</p><button class="text-button" data-action="open-documents">View documents ${icon('solar:arrow-right-linear')}</button></article></div>
+    <div class="portal-grid portal-grid--overview"><article class="membership-card"><iconify-icon class="member-card-pistol" icon="mdi:pistol" aria-hidden="true"></iconify-icon><span>THE GUN ASSOCIATION</span><small>Professional member</small><strong>Anele Dlamini</strong><p>TGA-2026-1048</p><div><b>ACTIVE</b><span>Valid to 31 July 2027</span></div></article><article class="status-card"><header><span>Membership status</span>${statusBadge('Active')}</header><div class="target-progress" style="--progress:82"><span>82%</span></div><h2>Almost complete</h2><p>One compliance document is still in review.</p><button class="text-button" data-action="open-documents">View documents ${icon('solar:arrow-right-linear')}</button></article></div>
     <div class="metric-grid">${metric('solar:folder-with-files-linear','Documents','4','3 approved · 1 in review')}${metric('solar:clipboard-check-linear','Latest assessment','92%','Foundation assessment passed')}${metric('solar:card-linear','Payments','Paid','Receipt TGA-PF-002841')}${metric('solar:calendar-linear','Renewal','31 Jul 2027','Reminder settings active')}</div>
     <div class="portal-content-grid"><section class="panel"><header><div><span class="eyebrow">Next actions</span><h2>Keep your record current</h2></div></header><div class="quick-actions"><button data-action="upload">${icon('solar:upload-linear')}<span><strong>Upload document</strong><small>Add a replacement or supporting record</small></span>${icon('solar:arrow-right-linear')}</button><button data-action="assessment">${icon('solar:clipboard-list-linear')}<span><strong>Complete assessment</strong><small>Open the five-question demonstration</small></span>${icon('solar:arrow-right-linear')}</button><button data-action="payment">${icon('solar:card-linear')}<span><strong>View payment demo</strong><small>Preview the simulated checkout</small></span>${icon('solar:arrow-right-linear')}</button></div></section><section class="panel"><header><div><span class="eyebrow">Recent activity</span><h2>Your latest updates</h2></div></header><ol class="activity-list"><li><span></span><div><strong>Compliance certificate submitted</strong><small>19 Jul 2026 · In review</small></div></li><li><span></span><div><strong>Foundation assessment passed</strong><small>18 Jul 2026 · 92%</small></div></li><li><span></span><div><strong>Annual payment recorded</strong><small>18 Jul 2026 · Simulated</small></div></li></ol></section></div>`;
 }
@@ -238,7 +241,7 @@ function adminPage(state, filteredMembers) {
 
 export function portalTemplate(state, filteredMembers) {
   const nav = portalNavigation(state);
-  return `<div class="portal-shell"><aside class="portal-sidebar"><a class="brand-link" href="#" data-action="home">${logo()}</a><span class="portal-role">${state.role === 'admin' ? 'Administrator portal' : 'Member portal'}</span>${nav}</aside><header class="portal-topbar"><button class="menu-button" data-action="open-portal-menu" aria-expanded="false" aria-controls="portal-mobile-dialog" aria-label="Open portal menu">${icon('solar:hamburger-menu-linear')}</button>${logo(false)}<div><button class="icon-button" data-action="notifications" aria-label="View prototype notifications">${icon('solar:bell-linear')}<span></span></button><span class="user-chip"><b>${state.role === 'admin' ? 'TG' : 'AD'}</b><small>${state.role === 'admin' ? 'TGA Administrator' : 'Anele Dlamini'}</small></span></div></header><main id="main-content" class="portal-main">${state.role === 'admin' ? adminPage(state, filteredMembers) : memberPage(state)}</main><dialog class="portal-drawer" id="portal-mobile-dialog" aria-label="Portal menu"><div><header>${logo()}<button class="icon-button" data-action="close-portal-menu" aria-label="Close portal menu">${icon('solar:close-circle-linear')}</button></header><span class="portal-role">${state.role === 'admin' ? 'Administrator portal' : 'Member portal'}</span>${nav}</div></dialog></div>`;
+  return `<div class="portal-shell"><aside class="portal-sidebar"><a class="brand-link" href="#" data-action="home">${logo()}</a><span class="portal-role">${state.role === 'admin' ? 'Administrator portal' : 'Member portal'}</span>${weaponMark('portal-weapon-mark')}${nav}</aside><header class="portal-topbar"><button class="menu-button" data-action="open-portal-menu" aria-expanded="false" aria-controls="portal-mobile-dialog" aria-label="Open portal menu">${icon('solar:hamburger-menu-linear')}</button>${logo(false)}${weaponMark('topbar-weapon-mark')}<div><button class="icon-button" data-action="notifications" aria-label="View prototype notifications">${icon('solar:bell-linear')}<span></span></button><span class="user-chip"><b>${state.role === 'admin' ? 'TG' : 'AD'}</b><small>${state.role === 'admin' ? 'TGA Administrator' : 'Anele Dlamini'}</small></span></div></header><main id="main-content" class="portal-main">${state.role === 'admin' ? adminPage(state, filteredMembers) : memberPage(state)}</main><dialog class="portal-drawer" id="portal-mobile-dialog" aria-label="Portal menu"><div><header>${logo()}<button class="icon-button" data-action="close-portal-menu" aria-label="Close portal menu">${icon('solar:close-circle-linear')}</button></header><span class="portal-role">${state.role === 'admin' ? 'Administrator portal' : 'Member portal'}</span>${weaponMark('portal-weapon-mark')}${nav}</div></dialog></div>`;
 }
 
 export function privacyContent() {

diff --git a/TGA_Member_Portal_Source/tga-portal-prototype/src/effects.js b/TGA_Member_Portal_Source/tga-portal-prototype/src/effects.js
@@ -36,9 +36,9 @@ function initialiseWebGL(canvas, reducedMotion) {
   const particleCount = compact ? 260 : 680;
   const positions = new Float32Array(particleCount * 3);
   const colours = new Float32Array(particleCount * 3);
-  const brass = new THREE.Color('#b5955b');
-  const steel = new THREE.Color('#8c969d');
-  const olive = new THREE.Color('#69725a');
+  const brass = new THREE.Color('#ffd100');
+  const steel = new THREE.Color('#ffffff');
+  const olive = new THREE.Color('#d3131d');
 
   for (let index = 0; index < particleCount; index += 1) {
     const radius = 1.2 + Math.random() * 3.4;
@@ -59,7 +59,7 @@ function initialiseWebGL(canvas, reducedMotion) {
   const particles = new THREE.Points(geometry, particleMaterial);
   group.add(particles);
 
-  const ringMaterial = new THREE.MeshBasicMaterial({ color: '#b5955b', transparent: true, opacity: 0.34 });
+  const ringMaterial = new THREE.MeshBasicMaterial({ color: '#d3131d', transparent: true, opacity: 0.42 });
   const rings = [1.25, 2.05, 2.85].map((radius, index) => {
     const ring = new THREE.Mesh(new THREE.TorusGeometry(radius, 0.012 + index * 0.003, 8, 96), ringMaterial.clone());
     ring.rotation.set(1.08 + index * 0.08, 0.22 - index * 0.12, index * 0.35);
@@ -71,7 +71,7 @@ function initialiseWebGL(canvas, reducedMotion) {
     new THREE.Vector3(-3.8, 0.8, -0.4), new THREE.Vector3(3.8, 0.8, -0.4),
     new THREE.Vector3(0.9, -2.6, 0.2), new THREE.Vector3(0.9, 2.6, 0.2)
   ]);
-  const lines = new THREE.LineSegments(lineGeometry, new THREE.LineBasicMaterial({ color: '#8c969d', transparent: true, opacity: 0.16 }));
+  const lines = new THREE.LineSegments(lineGeometry, new THREE.LineBasicMaterial({ color: '#ffffff', transparent: true, opacity: 0.14 }));
   group.add(lines);
 
   const cursor = { x: 0, y: 0 };

diff --git a/TGA_Member_Portal_Source/tga-portal-prototype/index.html b/TGA_Member_Portal_Source/tga-portal-prototype/index.html
@@ -3,7 +3,7 @@
   <head>
     <meta charset="UTF-8">
     <meta name="viewport" content="width=device-width, initial-scale=1.0">
-    <meta name="theme-color" content="#111416">
+    <meta name="theme-color" content="#d3131d">
     <meta name="description" content="Join The Gun Association for secure member services, firearm training information, online assessments, document management, compliance support and professional consulting pathways.">
     <meta name="robots" content="__TGA_ROBOTS__">
     <meta property="og:type" content="website">

diff --git a/TGA_Member_Portal_Source/tga-portal-prototype/docs/asset-register.md b/TGA_Member_Portal_Source/tga-portal-prototype/docs/asset-register.md
@@ -49,7 +49,7 @@ Final public images are center-cropped to 3:2 and supplied as 640, 960 and 1536 
 ### `og.png`
 
 - Placement: Open Graph and X/Twitter social preview when a verified `SITE_URL` is supplied.
-- Prompt: complete 1200×630 premium association campaign card using the gunmetal, olive, steel, brass and off-white system; controlled range instruction; technical grid and precision rings; exact text “THE GUN ASSOCIATION” and “RESPONSIBLE OWNERSHIP. PROFESSIONAL SUPPORT.”
+- Prompt: edit the approved prototype card into a high-contrast black, red, yellow and white campaign treatment; preserve the controlled range instruction scene and exact text; add small decorative firearm silhouettes and bullet-shaped technical markers only within the abstract grid and border areas.
 - Validation: required wording rendered correctly with no extra text.
 - Status: prototype — brand and safety approval required.
 
